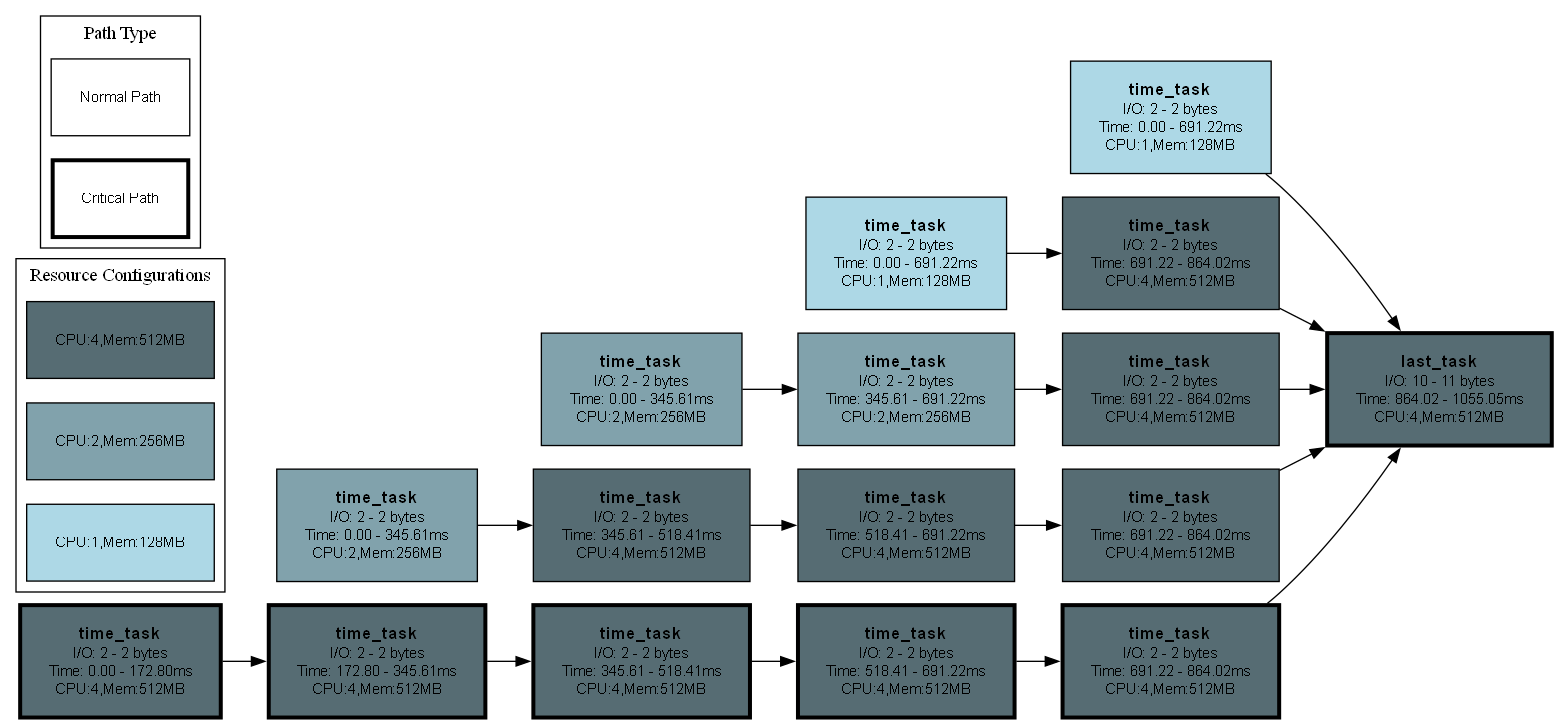
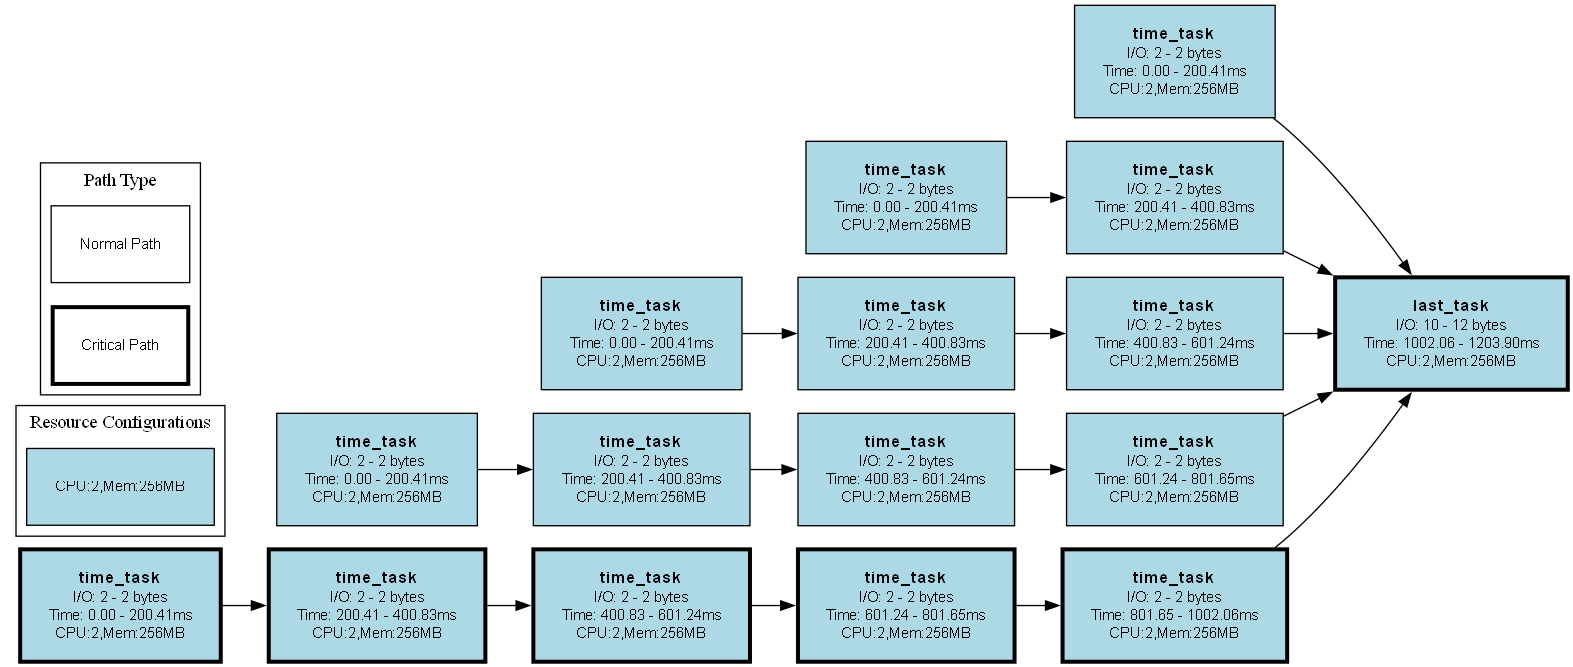
remove dynamic fanout support + started testing the planning algorithm further

diff --git a/src/worker.py b/src/worker.py
@@ -72,56 +72,22 @@ class Worker(ABC):
                     total_invocation_time_ms=0
                 )
                 # 1. DOWNLOAD DEPENDENCIES
-                self.log(task.id.get_full_id_in_dag(subdag), f"1) Grabbing Dependencies | Dynamic Task: {task.fan_out_idx != -1}...")
+                self.log(task.id.get_full_id_in_dag(subdag), f"1) Grabbing Dependencies")
                 task_dependencies: dict[str, Any] = {}
                 dependency_download_timer = Timer()
                 # Dynamic fan-outs
-                if task.fan_out_idx != -1:
-                    if len(task.upstream_nodes) != 1: raise Exception(f"task: {task.id.get_full_id_in_dag(subdag)} Dynamic fan-out tasks can only have 1 upstream task. Got {len(task.upstream_nodes)}")
-                    dependency_task = task.upstream_nodes[0]
-                    logger.info(f"DYNAMIC FAN-OUT: Grabbing {dependency_task.id.get_full_id_in_dag(subdag)}.output[{task.fan_out_idx}]")
-                    dfotimer = Timer()
+                logger.info(f"STATIC FAN-OUT: Grabbing {len(task.upstream_nodes)} upstream tasks: {[tt.id for tt in task.upstream_nodes]}")
+                for dependency_task in task.upstream_nodes:
+                    fotimer = Timer()
                     task_output = self.intermediate_storage.get(dependency_task.id.get_full_id_in_dag(subdag))
                     if task_output is None: raise Exception(f"[BUG] Task {dependency_task.id.get_full_id_in_dag(subdag)}'s data is not available")
-                    # ! This is a dynamic fan-out. Metrics should differentiate if this feature is not removed
-                    # task_metrics.input_metrics.append(TaskInputMetrics(
-                    #     task_id=dependency_task.id.get_full_id_in_dag(subdag),
-                    #     size=len(task_output),
-                    #     time_ms=dfotimer.stop()
-                    # ))
-                    task_dependencies[dependency_task.id.get_full_id()] = cloudpickle.loads(task_output)[task.fan_out_idx]
-                else:
-                    logger.info(f"STATIC FAN-OUT: Grabbing {len(task.upstream_nodes)} upstream tasks: {[tt.id for tt in task.upstream_nodes]}")
-                    for dependency_task in task.upstream_nodes:
-                        if dependency_task.is_dynamic_fan_out_representative:
-                            fanout_task_ids = self.metadata_storage.get(f"dynamic-fanout-ids-{dependency_task.id.get_full_id_in_dag(subdag)}")
-                            if fanout_task_ids is None: raise Exception(f"[BUG] Dynamic fan-out ids for {dependency_task.id.get_full_id_in_dag(subdag)}'s are not available")
-                            fanout_task_ids: list[str] = cloudpickle.loads(fanout_task_ids) # type: ignore
-                            # Dynamic Fan-outs: "reduce" phase
-                            aggregated_outputs = []
-                            for fanout_task_id in fanout_task_ids:
-                                timer = time.perf_counter()
-                                task_output = self.intermediate_storage.get(fanout_task_id)
-                                if task_output is None: raise Exception(f"[BUG] Dynamic fan-out task {fanout_task_id}'s data is not available")
-                                # ! need to think about how to handle dynamic fan-out reduce phase metrics collection
-                                # task_metrics.input_metrics.append(TaskIOMetrics(
-                                #     task_id=dependency_task.id.get_full_id_in_dag(dynamic_fanout_size),
-                                #     size=len(task_output),
-                                #     time=time.perf_counter() - timer
-                                # ))
-                                aggregated_outputs.append(cloudpickle.loads(task_output))
-                            task_dependencies[dependency_task.id.get_full_id()] = aggregated_outputs
-                        else:
-                            fotimer = Timer()
-                            task_output = self.intermediate_storage.get(dependency_task.id.get_full_id_in_dag(subdag))
-                            if task_output is None: raise Exception(f"[BUG] Task {dependency_task.id.get_full_id_in_dag(subdag)}'s data is not available")
-                            task_metrics.input_metrics.append(TaskInputMetrics(
-                                task_id=dependency_task.id.get_full_id_in_dag(subdag),
-                                size_bytes=len(task_output),
-                                time_ms=fotimer.stop(),
-                                normalized_time_ms=fotimer.stop() * (task_metrics.worker_resource_configuration.memory_mb / BASELINE_MEMORY_MB) if task_metrics.worker_resource_configuration else 0
-                            ))
-                            task_dependencies[dependency_task.id.get_full_id()] = cloudpickle.loads(task_output)
+                    task_metrics.input_metrics.append(TaskInputMetrics(
+                        task_id=dependency_task.id.get_full_id_in_dag(subdag),
+                        size_bytes=len(task_output),
+                        time_ms=fotimer.stop(),
+                        normalized_time_ms=fotimer.stop() * (task_metrics.worker_resource_configuration.memory_mb / BASELINE_MEMORY_MB) if task_metrics.worker_resource_configuration else 0
+                    ))
+                    task_dependencies[dependency_task.id.get_full_id()] = cloudpickle.loads(task_output)
                 
                 # Register the size of hardcoded arguments as well
                 for func_arg in task.func_args:
@@ -161,43 +127,9 @@ class Worker(ABC):
                 for downstream_task in task.downstream_nodes:
                     dc_key = f"dependency-counter-{downstream_task.id.get_full_id_in_dag(subdag)}"
                     dependencies_met = self.metadata_storage.atomic_increment_and_get(dc_key)
-
-                    downstream_task_total_dependencies = 0
-                    for unode in subdag.get_node_by_id(downstream_task.id).upstream_nodes:
-                        if unode.is_dynamic_fan_out_representative:
-                            fan_out_task_ids = self.metadata_storage.get(f"dynamic-fanout-ids-{unode.id.get_full_id_in_dag(subdag)}")
-                            if fan_out_task_ids is None: break # A fan-out that this DT depends on was not created yet. {downstream_task} is def. not ready
-                            fan_out_task_ids = cloudpickle.loads(fan_out_task_ids)
-                            downstream_task_total_dependencies += len(fan_out_task_ids)
-                        else:
-                            downstream_task_total_dependencies += 1
-
+                    downstream_task_total_dependencies = len(subdag.get_node_by_id(downstream_task.id).upstream_nodes)
                     self.log(task.id.get_full_id_in_dag(subdag), f"Incremented DC of {dc_key} ({dependencies_met}/{downstream_task_total_dependencies})")
-                    if dependencies_met == downstream_task_total_dependencies:
-                        if not downstream_task.is_dynamic_fan_out_representative:
-                            ready_downstream.append(downstream_task)
-                        else:
-                            if not isinstance(task_result, Iterable):
-                                raise Exception(f"Task {task.id.get_full_id_in_dag(subdag)} returned a non-iterable result but one of its downstream tasks ({downstream_task.id.get_full_id_in_dag(subdag)}) expected an iterable.")
-                            dynamic_fanout_size = len(task_result) # type: ignore
-                            if dynamic_fanout_size == 0: 
-                                raise Exception(f"Task {task.id.get_full_id_in_dag(subdag)} returned an empty iterable but one of its downstream tasks ({downstream_task.id.get_full_id_in_dag(subdag)}) expected a non-empty iterable.")
-                            logger.info(f"Splitting {downstream_task.id.get_full_id_in_dag(subdag)} into {dynamic_fanout_size} tasks")
-                            fanout_task_ids = [] # use list to keep the order
-                            # Dynamic Fan-outs: "map" phase
-                            for fo_idx in range(dynamic_fanout_size):
-                                node = dag_task_node.DAGTaskNode(
-                                        downstream_task.func_code, downstream_task.func_args, downstream_task.func_kwargs, 
-                                        # task_id=f"{downstream_task.id.task_id}-{fo_idx}",
-                                        dynamic_fan_out_representative_id=downstream_task.id,
-                                        fan_out_idx=fo_idx,
-                                        fan_out_size=dynamic_fanout_size
-                                    )
-                                fanout_task_ids.append(node.id.get_full_id_in_dag(subdag))
-                                node.upstream_nodes = downstream_task.upstream_nodes
-                                node.downstream_nodes = downstream_task.downstream_nodes
-                                ready_downstream.append(node)
-                            self.metadata_storage.set(f"dynamic-fanout-ids-{downstream_task.id.get_full_id_in_dag(subdag)}", cloudpickle.dumps(fanout_task_ids))
+                    if dependencies_met == downstream_task_total_dependencies: ready_downstream.append(downstream_task)
 
                 task_metrics.update_dependency_counters_time_ms = updating_dependency_counters_timer.stop()
 
@@ -268,30 +200,15 @@ class Worker(ABC):
         start_time = Timer()
         # Poll Storage for final result. Asynchronous wait
         task_id = task.id.get_full_id_in_dag(dag)
-        is_task_dynamic_fan_out = task.is_dynamic_fan_out_representative
         first_iter = True
         while True:
             if not first_iter: await asyncio.sleep(polling_interval_s)
             first_iter = False
-
-            if is_task_dynamic_fan_out:
-                fanout_task_ids = intermediate_storage.get(f"dynamic-fanout-ids-{task_id}")
-                if fanout_task_ids is None: continue
-                final_result_ids = cloudpickle.loads(fanout_task_ids)
-                fanout_tasks_ready = intermediate_storage.exists(*final_result_ids)
-                if fanout_tasks_ready != len(final_result_ids): continue # not all tasks are ready
-                aggregated_result = []
-                for final_result_id in final_result_ids:
-                    final_result = intermediate_storage.get(final_result_id)
-                    aggregated_result.append(cloudpickle.loads(final_result)) # type: ignore
-                logger.info(f"Dynamic Fan-Out Final Result Ready: ({task_id}) => Size: {len(aggregated_result)} | Type: ({type(aggregated_result)}) | Time: {start_time.stop()} ms")
-                return aggregated_result
-            else:
-                final_result = intermediate_storage.get(task_id)
-                if final_result is not None:
-                    final_result = cloudpickle.loads(final_result) # type: ignore
-                    logger.info(f"Final Result Ready: ({task_id}) => Size: {len(str(final_result))} | Type: ({type(final_result)}) | Time: {start_time.stop()} ms")
-                    return final_result
+            final_result = intermediate_storage.get(task_id)
+            if final_result is not None:
+                final_result = cloudpickle.loads(final_result) # type: ignore
+                logger.info(f"Final Result Ready: ({task_id}) => Size: {len(str(final_result))} | Type: ({type(final_result)}) | Time: {start_time.stop()} ms")
+                return final_result
 
     def log(self, task_id: str, message: str):
         """Log a message with worker ID prefix."""

diff --git a/src/planning/dag_planner.py b/src/planning/dag_planner.py
@@ -332,16 +332,16 @@ class SimpleDAGPlanner(DAGPlanner):
             for _, node in _dag._all_nodes.items(): node.add_annotation(worker_resources)
             return
 
-        middle_config = sorted_available_worker_resource_configurations[len(sorted_available_worker_resource_configurations) // 2]
+        middle_resource_config = sorted_available_worker_resource_configurations[len(sorted_available_worker_resource_configurations) // 2]
         if not metadata_access.has_required_predictions():
-            logger.warning(f"No Metadata recorded for previous runs of the same DAG structure. Giving intermediate resources ({middle_config}) to all nodes")
+            logger.warning(f"No Metadata recorded for previous runs of the same DAG structure. Giving intermediate resources ({middle_resource_config}) to all nodes")
             # No Metadata recorded for previous runs of the same DAG structure => give intermediate resources to all nodes
-            for _, node in _dag._all_nodes.items(): node.add_annotation(middle_config)
+            for _, node in _dag._all_nodes.items(): node.add_annotation(middle_resource_config)
             return
         
-        
         logger.info(f"Starting DAG Planning Algorithm")
-        best_resource_config = sorted_available_worker_resource_configurations[0]
+        # ! UNCOMMENT AFTER TESTING best_resource_config = sorted_available_worker_resource_configurations[0]
+        best_resource_config = middle_resource_config
         
         algorithm_start_time = Timer()
 
@@ -352,37 +352,41 @@ class SimpleDAGPlanner(DAGPlanner):
         nodes_info = SimpleDAGPlanner._calculate_node_timings_with_common_resources(topo_sorted_nodes, metadata_access, best_resource_config, sla)
         critical_path_nodes, critical_path_time = SimpleDAGPlanner._find_critical_path(dag, nodes_info)
         critical_path_node_ids = { node.id.get_full_id() for node in critical_path_nodes }
+        for cpnode in critical_path_nodes:
+            print(f"cpnode time: {nodes_info[cpnode.id.get_full_id()].path_completion_time}")
         
         logger.info(f"CRITICAL PATH | Nodes: {len(critical_path_nodes)} | Predicted Completion Time: {critical_path_time} ms")
         
         # Downgrade resources for nodes NOT on the critical path
         # Start with all nodes using best resources
-        node_to_resource_config = { node.id.get_full_id(): best_resource_config for node in topo_sorted_nodes }
+        # ! UNCOMMMENT AFTER TESTING node_to_resource_config = { node.id.get_full_id(): best_resource_config for node in topo_sorted_nodes }
+        node_to_resource_config = { node.id.get_full_id(): middle_resource_config for node in topo_sorted_nodes }
         nodes_outside_critical_path = [node for node in topo_sorted_nodes if node.id.get_full_id() not in critical_path_node_ids]
         lower_resources_simulation_timer = Timer()
         successful_downgrades = 0
         # For each NON-critical path node, try to use lower resources
-        for node in nodes_outside_critical_path:
-            node_id = node.id.get_full_id()
-            node_downgrade_successful = False
-            # Try each resource config from highest to lowest
-            for resource_config in sorted_available_worker_resource_configurations:
-                if resource_config == node_to_resource_config[node_id]: continue
-                # Temporarily assign this resource config
-                original_config = node_to_resource_config[node_id]
-                node_to_resource_config[node_id] = resource_config
+        # ! COMMENTED FOR TESTING
+        # for node in nodes_outside_critical_path:
+        #     node_id = node.id.get_full_id()
+        #     node_downgrade_successful = False
+        #     # Try each resource config from highest to lowest
+        #     for resource_config in sorted_available_worker_resource_configurations:
+        #         if resource_config == node_to_resource_config[node_id]: continue
+        #         # Temporarily assign this resource config
+        #         original_config = node_to_resource_config[node_id]
+        #         node_to_resource_config[node_id] = resource_config
                 
-                # Recalculate timings with this resource configuration
-                temp_nodes_info = SimpleDAGPlanner._calculate_node_timings_with_custom_resources(topo_sorted_nodes, metadata_access, node_to_resource_config, sla)
-                _, new_critical_path_time = SimpleDAGPlanner._find_critical_path(dag, temp_nodes_info)
+        #         # Recalculate timings with this resource configuration
+        #         temp_nodes_info = SimpleDAGPlanner._calculate_node_timings_with_custom_resources(topo_sorted_nodes, metadata_access, node_to_resource_config, sla)
+        #         _, new_critical_path_time = SimpleDAGPlanner._find_critical_path(dag, temp_nodes_info)
 
-                if new_critical_path_time != critical_path_time:
-                    node_to_resource_config[node_id] = original_config # This config changes the critical path, revert
-                else:
-                    # print(f"Node: {node_id[-6:]} | Downgraded Resources: {original_config.memory_mb} => {node_to_resource_config[node_id].memory_mb}")
-                    node_downgrade_successful = True
-            if node_downgrade_successful:
-                successful_downgrades += 1
+        #         if new_critical_path_time != critical_path_time:
+        #             node_to_resource_config[node_id] = original_config # This config changes the critical path, revert
+        #         else:
+        #             # print(f"Node: {node_id[-6:]} | Downgraded Resources: {original_config.memory_mb} => {node_to_resource_config[node_id].memory_mb}")
+        #             node_downgrade_successful = True
+        #     if node_downgrade_successful:
+        #         successful_downgrades += 1
 
         logger.info(f"Downgraded resources for {successful_downgrades} nodes out of {len(nodes_outside_critical_path)} nodes outside the critical path in {lower_resources_simulation_timer.stop():.3f} ms")
 
@@ -403,6 +407,8 @@ class SimpleDAGPlanner(DAGPlanner):
 
         # DEBUG: Plan Visualization
         updated_nodes_info = DAGPlanner._calculate_node_timings_with_custom_resources(topo_sorted_nodes, metadata_access, node_to_resource_config, sla)
+        for cpnode in critical_path_nodes:
+            print(f"cpnode time: {updated_nodes_info[cpnode.id.get_full_id()].path_completion_time}")
         DAGPlanner._visualize_dag(dag, updated_nodes_info, node_to_resource_config, critical_path_node_ids)
         # !!! FOR QUICK TESTING ONLY. REMOVE LATER !!!
         exit()

diff --git a/_examples/original/dagforpredictions_expensive_computations.py b/_examples/original/dagforpredictions_expensive_computations.py
@@ -1,0 +1,86 @@
+import os
+import sys
+import time
+
+# import numpy as np
+
+sys.path.append(os.path.abspath(os.path.join(os.path.dirname(__file__), "..", "..")))
+from src.dag.dag import FullDAG
+from src.planning.dag_planner import DummyDAGPlanner, SimpleDAGPlanner
+from src.worker_resource_configuration import TaskWorkerResourceConfiguration
+from src.storage.metrics.metrics_storage import MetricsStorage
+from src.storage.in_memory_storage import InMemoryStorage
+from src.storage.redis_storage import RedisStorage
+from src.worker import DockerWorker, LocalWorker
+from src.dag_task_node import DAGTask, DAGTaskNode
+
+# INTERMEDIATE STORAGE
+redis_intermediate_storage_config = RedisStorage.Config(
+   host="localhost", port=6379, password="redisdevpwd123"
+)
+# INTERMEDIATE STORAGE
+inmemory_intermediate_storage_config = InMemoryStorage.Config()
+
+# METRICS STORAGE
+redis_metrics_storage_config = RedisStorage.Config(
+   host="localhost", port=6380, password="redisdevpwd123"
+)
+
+localWorkerConfig = LocalWorker.Config(
+    intermediate_storage_config=redis_intermediate_storage_config,
+    metadata_storage_config=redis_intermediate_storage_config,  # will use the same as intermediate_storage_config
+    metrics_storage_config=MetricsStorage.Config(storage_config=redis_metrics_storage_config)
+)
+
+dockerWorkerConfig = DockerWorker.Config(
+    docker_gateway_address="http://localhost:5000",
+    intermediate_storage_config=redis_intermediate_storage_config,
+    metrics_storage_config=MetricsStorage.Config(storage_config=redis_metrics_storage_config),
+    available_resource_configurations=[
+        TaskWorkerResourceConfiguration(cpus=1, memory_mb=128), # will be the default/fallback
+        TaskWorkerResourceConfiguration(cpus=2, memory_mb=256),
+        TaskWorkerResourceConfiguration(cpus=4, memory_mb=512)
+    ]
+)
+
+@DAGTask
+def time_task_expensive(dummy_data: int) -> int:
+    time.sleep(.5)
+    return dummy_data + 1
+
+@DAGTask
+def last_task_expensive(dummy_data_1: int, dummy_data_2: int, dummy_data_3: int, dummy_data_4: int, dummy_data_5: int) -> str:
+    time.sleep(.5)
+    return f"{dummy_data_1} {dummy_data_2} {dummy_data_3} {dummy_data_4} {dummy_data_5}"
+
+# Define the workflow
+"""
+Good for testing resource downgrades outside the critical path because different branches have considerably different completion times
+"""
+b1_t1 = time_task_expensive(10)
+b1_t2 = time_task_expensive(b1_t1)
+b1_t3 = time_task_expensive(b1_t2)
+b1_t4 = time_task_expensive(b1_t3)
+b1_t5 = time_task_expensive(b1_t4)
+
+b2_t1 = time_task_expensive(20)
+b2_t2 = time_task_expensive(b2_t1)
+b2_t3 = time_task_expensive(b2_t2)
+b2_t4 = time_task_expensive(b2_t3)
+
+b3_t1 = time_task_expensive(30)
+b3_t2 = time_task_expensive(b3_t1)
+b3_t3 = time_task_expensive(b3_t2)
+
+b4_t1 = time_task_expensive(40)
+b4_t2 = time_task_expensive(b4_t1)
+
+b5_t1 = time_task_expensive(50)
+
+sink_task = last_task_expensive(b1_t5, b2_t4, b3_t3, b4_t2, b5_t1)
+
+for i in range(1):
+    start_time = time.time()
+    # result = sink.compute(config=localWorkerConfig)
+    result = sink_task.compute(config=dockerWorkerConfig, planner=SimpleDAGPlanner)
+    print(f"[{i}] Result: {result} | Makespan: {time.time() - start_time}s")

diff --git a/src/dag_task_node.py b/src/dag_task_node.py
@@ -45,15 +45,11 @@ class DAGTaskNodeId:
 class TaskAnnotation(ABC): pass
 
 class DAGTaskNode(Generic[R]):
-    def __init__(self, func: Callable[..., R], args: tuple, kwargs: dict, dynamic_fan_out_representative_id: DAGTaskNodeId | None = None, fan_out_idx: int = -1, fan_out_size: int = -1):
+    def __init__(self, func: Callable[..., R], args: tuple, kwargs: dict):
         self.id: DAGTaskNodeId = DAGTaskNodeId(func.__name__)
         self.func_name = func.__name__
         self.func_code = func
         self.func_args = args
-        self.is_dynamic_fan_out_representative = False
-        self.dynamic_fan_out_representative_id = dynamic_fan_out_representative_id
-        self.fan_out_idx = fan_out_idx # to know which item to use from the upstream_task result (iterable)
-        self.fan_out_size = fan_out_size # to check when a dynamic fan-out is complete more efficiently
         self.func_kwargs = kwargs
         self.downstream_nodes: list[DAGTaskNode] = []
         self.upstream_nodes: list[DAGTaskNode] = []
@@ -61,15 +57,6 @@ class DAGTaskNode(Generic[R]):
         # self.cached_result: _CachedResultWrapper[R] | None = None
         self._register_dependencies()
         self.third_party_libs: set[str] = self._find_third_party_libraries(exlude_libs=set(["src", "tests"]))
-
-        if self.fan_out_idx != -1:
-            print(f"Dynamic Fan-Out DAGTaskNode | fan_out_idx: {self.fan_out_idx} | dynamic_fan_out_representative_id: {self.dynamic_fan_out_representative_id} | upstream_len: {len(self.upstream_nodes)} | func_args: {self.func_args}")
-        
-    def map(self, decorated_node: Callable[..., "DAGTaskNode[S]"]) -> "DAGTaskNode[list[S]]":
-        # special/representative node. Will be replaced by a "real node" at runtime, right before the fan-out
-        _node: DAGTaskNode = decorated_node(self)
-        _node.is_dynamic_fan_out_representative = True
-        return _node
 
     def _register_dependencies(self):
         for arg in self.func_args:
@@ -247,7 +234,7 @@ class DAGTaskNode(Generic[R]):
         self.func_kwargs = new_kwargs
 
     def __repr__(self):
-        return f"DAGTaskNode({self.func_name}, id={self.id}, dyn_fanout_idx={self.fan_out_idx})"
+        return f"DAGTaskNode({self.func_name}, id={self.id})"
 
     def _try_install_third_party_libs(self):
         missing_modules = []

diff --git a/src/dag/dag.py b/src/dag/dag.py
@@ -263,9 +263,6 @@ class FullDAG(GenericDAG):
             node_style = "filled"
             node_color = "lightblue"
 
-            if node.is_dynamic_fan_out_representative:
-                node_color = "lightyellow"
-            
             # Add the node to the graph
             dot.node(node_id, label=label, shape="box", style=node_style, fillcolor=node_color)
         

diff --git a/TODO.md b/TODO.md
@@ -1,5 +1,9 @@
 # PLANNING ALGORITHMS
-- Problem: Planning is not accurate! Does not account for scheduling/platform times? which times?
+- Problem: Test Planning accuracy (is the predicted time close to the real time?)
+    1. Create a DAG that actually does expensive computation that runs faster on better memory
+        Adjust `dagforpredictions_expensive_computations.py`
+    2. [DONE] Change planner to just use middle configuration so that predictions algorithm doesn't influence too much
+
 - Test the SimplePlanner algorithm: make a run without the planning algorithm and make another with the planning algorithm, then compare
 - Make the SLA configurable by the user (currently it's hardcoded on `dag.py` as "avg")
 
